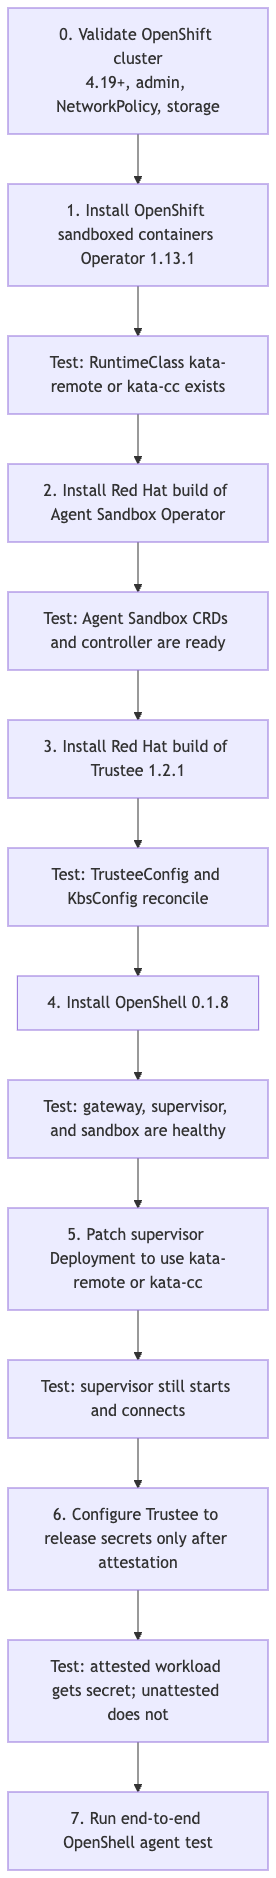
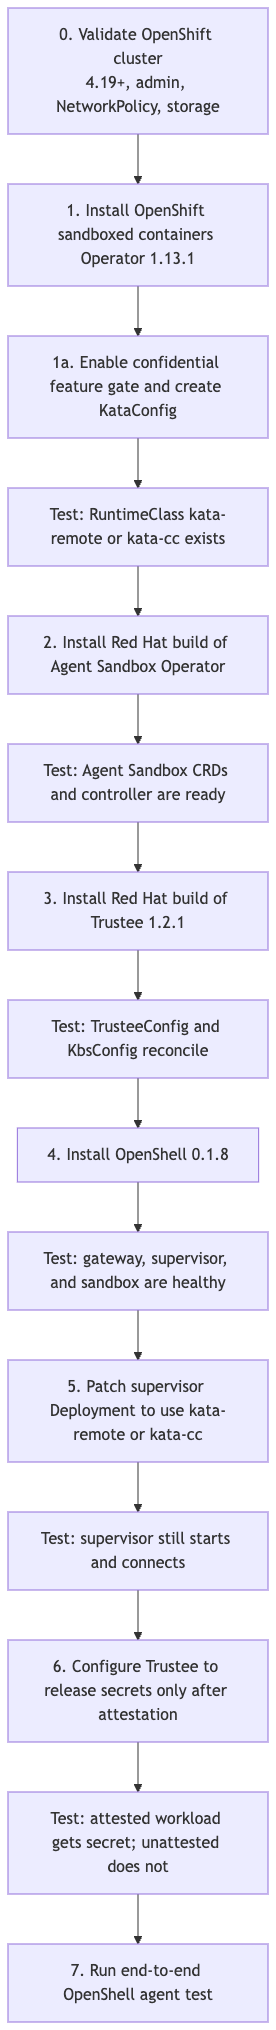
Add confidential Kata deployment for supervisor

diff --git a/README.md b/README.md
@@ -21,7 +21,8 @@ This repository is a PoC deployment and test harness. It is intentionally small 
 ```mermaid
 flowchart TD
     A["0. Validate OpenShift cluster<br/>4.19+, admin, NetworkPolicy, storage"] --> B["1. Install OpenShift sandboxed containers Operator 1.13.1"]
-    B --> B1["Test: RuntimeClass kata-remote or kata-cc exists"]
+    B --> K["1a. Enable confidential feature gate and create KataConfig"]
+    K --> B1["Test: RuntimeClass kata-remote or kata-cc exists"]
     B1 --> C["2. Install Red Hat build of Agent Sandbox Operator"]
     C --> C1["Test: Agent Sandbox CRDs and controller are ready"]
     C1 --> D["3. Install Red Hat build of Trustee 1.2.1"]
@@ -40,7 +41,6 @@ flowchart TD
 ## Repository layout
 
 ```text
-openshell-coco-stack/
 ├── README.md
 ├── Makefile
 ├── deploy/
@@ -48,8 +48,8 @@ openshell-coco-stack/
 │   ├── 01-openshift-sandboxed-containers-operator.yaml
 │   ├── 02-agent-sandbox-operator.yaml
 │   ├── 03-trustee-operator.yaml
-│   ├── 04-openshell-values.yaml
-│   └── 05-supervisor-runtimeclass-patch.yaml
+│   ├── 04-kataconfig.yaml
+│   └── 05-openshell-supervisor-confidential.yaml
 ├── config/
 │   ├── openshell-values.yaml
 │   ├── trustee-config.yaml

diff --git a/docs/deployment-sequence.md b/docs/deployment-sequence.md
@@ -32,6 +32,24 @@ Test:
 - a RuntimeClass such as `kata-remote` or `kata-cc` exists
 - a simple Pod starts under that RuntimeClass
 
+## Phase 1a — KataConfig
+
+Create:
+
+- `osc-feature-gates` ConfigMap with `confidential: "true"`
+- `KataConfig` named `openshell-coco`
+- `enablePeerPods: true`
+
+This asks the OpenShift sandboxed containers Operator to enable confidential peer pods and create the `kata-remote` RuntimeClass.
+
+Test:
+
+```bash
+oc apply -f deploy/04-kataconfig.yaml
+oc wait --for=condition=InProgress=False kataconfig/openshell-coco --timeout=600s
+oc get runtimeclass kata-remote
+```
+
 ## Phase 2 — Agent Sandbox
 
 Install:
